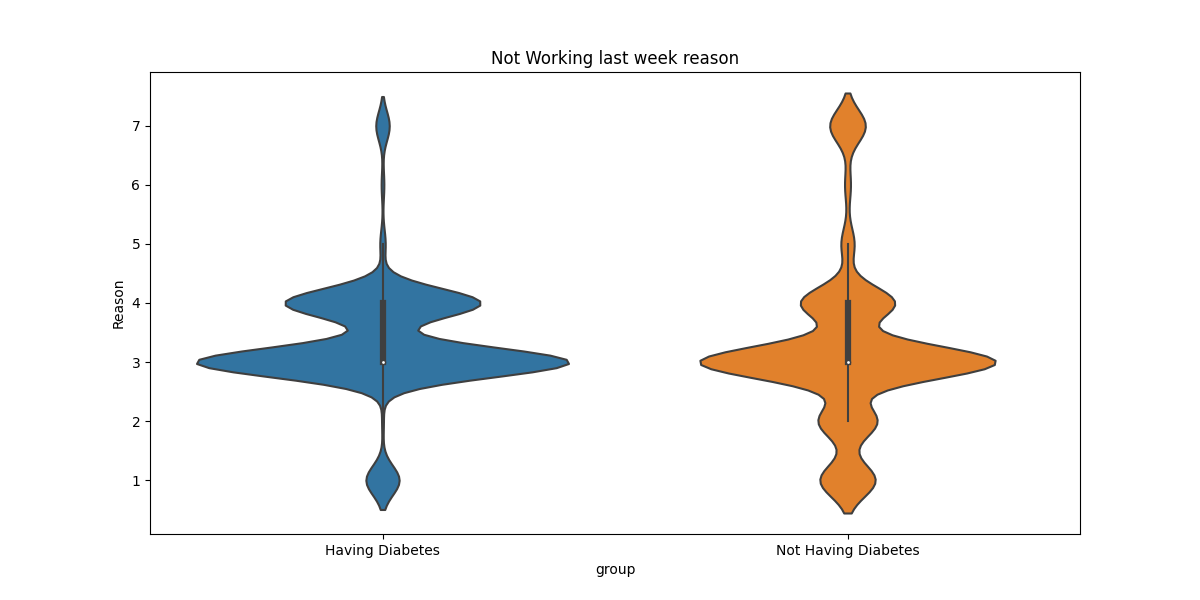
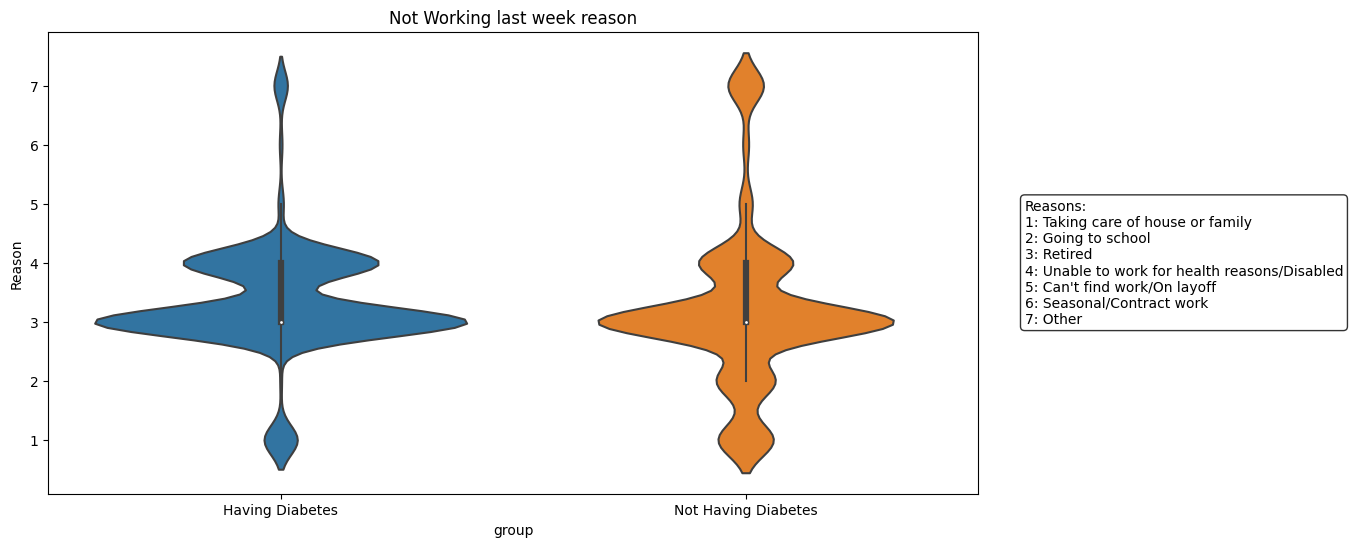
add labels to figures

Changed region(s): [[0.0617, 0.0, 1.0, 0.9634], [0.0, 0.4662, 0.0308, 0.5283], [0.37, 0.9634, 0.4008, 0.9945]]

diff --git a/analysis/occupation.py b/analysis/occupation.py
@@ -35,8 +35,23 @@ plt.figure(figsize=(10, 6))
 sns.violinplot(x='group', y='value', data=df_work)
 plt.title('Violin Plot of Work')
 plt.ylabel('Values')
+textstr = (
+    "Work Experience Categories:\n"
+    "1: Working at a job or business\n"
+    "2: With a job or business but not at work\n"
+    "3: Looking for work\n"
+    "4: Not working at a job or business"
+)
+
+props = dict(boxstyle='round', facecolor='white', alpha=0.8)
+plt.text(
+    1.05, 0.5, textstr, transform=plt.gca().transAxes,
+    fontsize=10, verticalalignment='center', bbox=props
+)
 plt.savefig('E:/sem5/datathon/images/work_experience.png')
 plt.show()
+
+
 
 # %%
 
@@ -74,6 +89,22 @@ plt.figure(figsize=(12, 6))
 sns.violinplot(x='group', y='value', data=df_reason)
 plt.title('Not Working last week reason')
 plt.ylabel('Reason')
+textstr = (
+    "Reasons:\n"
+    "1: Taking care of house or family\n"
+    "2: Going to school\n"
+    "3: Retired\n"
+    "4: Unable to work for health reasons/Disabled\n"
+    "5: Can't find work/On layoff\n"
+    "6: Seasonal/Contract work\n"
+    "7: Other"
+)
+
+props = dict(boxstyle='round', facecolor='white', alpha=0.8)
+plt.text(
+    1.05, 0.5, textstr, transform=plt.gca().transAxes,
+    fontsize=10, verticalalignment='center', bbox=props
+)
 plt.savefig('E:/sem5/datathon/images/reason_not_working.png')
 plt.show()
 

diff --git a/README.md b/README.md
@@ -2,7 +2,7 @@
 
 ### Attributes use for Diabetes Prediction
 
-- [Optimization of diabetes prediction methods based on combinatorial balancing algorithm](https://www.nature.com/articles/s41387-024-00324-z#Tab1) Gender, Age, Hypertension, Heart_disease, Smoking_history, BMI, Glycated Hemoglobin Level, Blood Glucose Level
+- [Optimization of diabetes prediction methods based on combinatorial balancing algorithm](https://www.nature.com/articles/s41387-024-00324-z#Tab1) use Gender, Age, Hypertension, Heart_disease, Smoking_history, BMI, Glycated Hemoglobin Level, Blood Glucose Level
 
 - [Diabetes Prediction using Machine Learning Algorithms](https://www.sciencedirect.com/science/article/pii/S1877050920300557) use Glucose Level, Blood Pressure, Skin Thickness(mm), Insulin ,BMI ,Age ,Job Type(Office-work/Fieldwork/Machine-work) 
 
